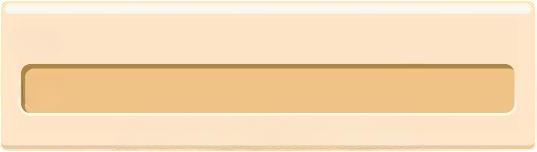
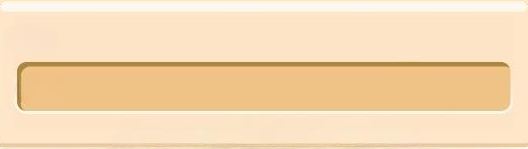
thêm tính năng chat phần 1 - tải ô chat / ẩn các ô khác khi bật ô chat

Changed region(s): [[0.0303, 0.4027, 0.9697, 0.7517], [0.0, 0.9128, 1.0, 1.0], [0.0, 0.0, 1.0, 0.1342]]

diff --git a/core/src/main/java/com/dang/dragonboy/hien_thi/VeHUD.java b/core/src/main/java/com/dang/dragonboy/hien_thi/VeHUD.java
@@ -290,20 +290,14 @@ public class VeHUD {
         shapeRenderer.rect(155, screenHeight - 80 - 5 + 50 - 25, 130 * kiPercent , 25);
         shapeRenderer.end();
 
-        // RENDER SAU ẢNH ĐẬU THẦN ( trắng )
-        shapeRenderer.begin(ShapeRenderer.ShapeType.Filled);
-        shapeRenderer.setColor(1f,1f,1f, 1f);
-        shapeRenderer.rect(screenWidth - 75- 10 + 10, 10 + 10, 53 , dauThanRenderH);
-        shapeRenderer.end();
-
+        if (!dangHienKhungChat) {
+            // RENDER SAU ẢNH ĐẬU THẦN ( trắng )
+            shapeRenderer.begin(ShapeRenderer.ShapeType.Filled);
+            shapeRenderer.setColor(1f, 1f, 1f, 1f);
+            shapeRenderer.rect(screenWidth - 75 - 10 + 10, 10 + 10, 53, dauThanRenderH);
+            shapeRenderer.end();
+        }
         batch.begin();
-        // ô chat (góc phải trên)
-        int ochatW = 60;
-        int ochatH = 60;
-        float ochatX = screenWidth - ochatW - 15;
-        float ochatY = screenHeight-10-ochatH;
-        Texture texOChat = (thoiGianClickOChat > 0) ? ochatclick : ochat;
-        batch.draw(texOChat, ochatX, ochatY, ochatW, ochatH);
 
         // thanh HP (góc trái trên)
         int thanhhpW = 300;
@@ -311,50 +305,74 @@ public class VeHUD {
         float hpX = 5;
         float hpY = screenHeight - thanhhpH - 5;
         batch.draw(thanhhp, hpX, hpY, thanhhpW, thanhhpH);
-        // ô đậu thần (góc phải dưới)
-        int odauthanW = 75;
-        int odauthanH = 75;
-        float odauthanX = screenWidth - odauthanW - 10;
-        float odauthanY = 10;
-        Texture texODauThan = (thoiGianClickODauThan > 0) ? odauthanclick : odauthan;
-        batch.draw(texODauThan, odauthanX, odauthanY, odauthanW, odauthanH);
 
-        // ô skill (hàng ngang phía dưới)
-        int oskillW = 50;
-        int oskillH = 50;
-        float skillBaseX = 30;
-        float skillY = 25f;
+        if (!dangHienKhungChat) {
+            // ô chat (góc phải trên)
+            int ochatW = 60;
+            int ochatH = 60;
+            float ochatX = screenWidth - ochatW - 15;
+            float ochatY = screenHeight-10-ochatH;
+            Texture texOChat = (thoiGianClickOChat > 0) ? ochatclick : ochat;
+            batch.draw(texOChat, ochatX, ochatY, ochatW, ochatH);
 
-        for (int i = 0; i < 5; i++) {
-            float x = skillBaseX + i * (65f);
-            Texture texSkill = (skillDangChon == i) ? oskillclick : oskill;
-            batch.draw(texSkill, x, skillY, oskillW, oskillH);
 
-            // icon kỹ năng
-            if (oSkills[i] != null) {
-                batch.draw(oSkills[i], x + 6.9f, skillY + 6.9f, oskillW - 13.8f, oskillH - 13.8f);
+            // ô skill (hàng ngang phía dưới)
+            int oskillW = 50;
+            int oskillH = 50;
+            float skillBaseX = 30;
+            float skillY = 25f;
+
+            for (int i = 0; i < 5; i++) {
+                float x = skillBaseX + i * (65f);
+                Texture texSkill = (skillDangChon == i) ? oskillclick : oskill;
+                batch.draw(texSkill, x, skillY, oskillW, oskillH);
+
+                // icon kỹ năng
+                if (oSkills[i] != null) {
+                    batch.draw(oSkills[i], x + 6.9f, skillY + 6.9f, oskillW - 13.8f, oskillH - 13.8f);
+                }
+
+                // số kỹ năng
+                font.setColor(Color.WHITE);
+                String text = (i + 1) + "";
+                layout.setText(font, text);
+                font.draw(batch, layout, x + (oskillW - layout.width) / 2, skillY + oskillH + 15f);
             }
 
-            // số kỹ năng
-            font.setColor(Color.WHITE);
-            String text = (i + 1) + "";
-            layout.setText(font, text);
-            font.draw(batch, layout, x + (oskillW - layout.width) / 2, skillY + oskillH + 15f);
-        }
-        // nút popup thông tin nhân vật (bên trái trên)
-        float nutpopupX = 0f;
-        float nutpopupY = screenHeight / 4f *3;
-        batch.draw(nutpopup, nutpopupX, nutpopupY, 25, 35);
+            // nút popup thông tin nhân vật (bên trái trên)
+            float nutpopupX = 0f;
+            float nutpopupY = screenHeight / 4f * 3;
+            batch.draw(nutpopup, nutpopupX, nutpopupY, 25, 35);
 
+            // ô đậu thần (góc phải dưới)
+            int odauthanW = 75;
+            int odauthanH = 75;
+            float odauthanX = screenWidth - odauthanW - 10;
+            float odauthanY = 10;
+            Texture texODauThan = (thoiGianClickODauThan > 0) ? odauthanclick : odauthan;
+            batch.draw(texODauThan, odauthanX, odauthanY, odauthanW, odauthanH);
+
+            // số đậu thần
+            font.setColor(83 / 255f, 41 / 255f, 5 / 255f, 1);
+            layout.setText(font, duLieuNguoiChoi.getSoDauThan()+"");
+            font.draw(batch, layout, odauthanX+(odauthanW- layout.width)/2f , odauthanY + 43);
+
+        }
         // Tên nhân vật ngay ở thanhhp.png
         font.setColor(0f / 255f, 83f / 255f, 37f / 255f, 1f);
         layout.setText(font, duLieuNguoiChoi.getTen());
         font.draw(batch, layout, 5+(155- layout.width)/2f, screenHeight - 80 - 5 + 50);
 
-        // số đậu thần
-        font.setColor(83 / 255f, 41 / 255f, 5 / 255f, 1);
-        layout.setText(font, duLieuNguoiChoi.getSoDauThan()+"");
-        font.draw(batch, layout, odauthanX+(odauthanW- layout.width)/2f , odauthanY + 43);
+        //khung chat
+        if (dangHienKhungChat) {
+            batch.end();
+            shapeRenderer.begin(ShapeRenderer.ShapeType.Filled);
+            shapeRenderer.setColor(83 / 255f, 41 / 255f, 5 / 255f, 1);
+            shapeRenderer.rect((Gdx.graphics.getWidth() - 528) / 2f - 2f, 35 -1f, 528 +4f, 149 +3f);
+            shapeRenderer.end();
+            batch.begin();
+            batch.draw(khungchat,(Gdx.graphics.getWidth() - 528) / 2f,35 , 528, 149);
+        }
 
     }
 
@@ -371,7 +389,7 @@ public class VeHUD {
         }
     }
     public void chonSkill(int index) {
-        if (index >= 0 && index < 5) {
+        if (index >= 0 && index < 5 && !dangHienKhungChat) {
             skillDangChon = index;
         }
     }

diff --git a/core/src/main/java/com/dang/dragonboy/hien_thi/HUDClickHandler.java b/core/src/main/java/com/dang/dragonboy/hien_thi/HUDClickHandler.java
@@ -30,7 +30,7 @@ public class HUDClickHandler {
         float ochatX = screenWidth - ochatW - 15;
         float ochatY = screenHeight-10-ochatH;
         if (x >= ochatX && x <= ochatX + 60 && y >= ochatY && y <= ochatY + 60) {
-            if (!veHUD.dangHienPopup) {
+            if (!veHUD.dangHienPopup && !veHUD.dangHienKhungChat) {
                 veHUD.clickOChat();
             }
         }
@@ -41,7 +41,7 @@ public class HUDClickHandler {
         float odauthanX = screenWidth - odauthanW - 10;
         float odauthanY = 10;
         if (x >= odauthanX && x <= odauthanX + 75 && y >= odauthanY && y <= odauthanY + 75) {
-            if (!veHUD.dangHienPopup) {
+            if (!veHUD.dangHienPopup && !veHUD.dangHienKhungChat) {
                 veHUD.clickODauThan();
             }
         }
@@ -52,7 +52,7 @@ public class HUDClickHandler {
             veHUD.hienPopupNhanVat();
         }
 
-        if (veHUD.dangHienPopup && !veHUD.dangHienThongBao) {
+        if (veHUD.dangHienPopup && !veHUD.dangHienThongBao && !veHUD.dangHienKhungChat) {
             if (veHUD.vuaMoPopup) {
                 veHUD.vuaMoPopup = false;
                 return;